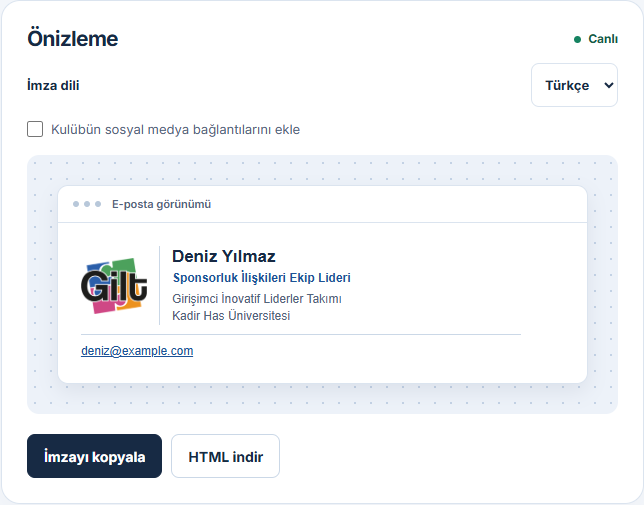
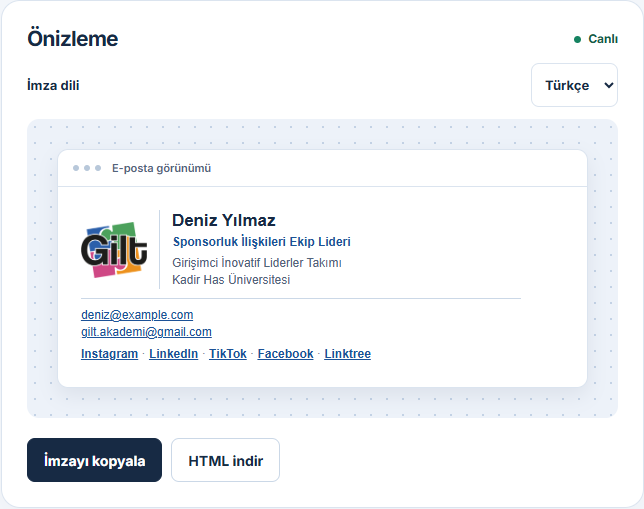
Restore default GILT signature with social links

diff --git a/kilavuz.html b/kilavuz.html
@@ -6,7 +6,7 @@
   <meta name="description" content="GİLT imzanı oluşturmayı ve Gmail ya da Outlook’a eklemeyi ekran görüntüleriyle öğren.">
   <title>E-posta imzası kullanım kılavuzu · GİLT</title>
   <link rel="icon" href="assets/gilt-color-wordmark.png">
-  <link rel="stylesheet" href="style.css?v=7">
+  <link rel="stylesheet" href="style.css?v=8">
 </head>
 <body>
   <header class="topbar"><div class="shell topbar-inner">
@@ -22,7 +22,6 @@
       <a href="#hazirla">İmzanı hazırla</a>
       <a href="#gmail">Gmail</a>
       <a href="#outlook">Outlook</a>
-      <a href="#resmi">Resmî yazışmalar</a>
       <a href="#kontrol">Son kontrol</a>
     </nav>
     <section class="panel" id="hazirla">
@@ -41,10 +40,9 @@
         <div>
           <h3>Önizlemeyi kontrol et ve kopyala</h3>
           <p><strong>İmza dili</strong> menüsünden Türkçe veya English seç. Görev ya da birim adını seçtiğin dilde yaz. Önizlemeyi kontrol ettikten sonra <strong>İmzayı kopyala</strong>’ya bas.</p>
-          <p>Kulüp tanıtımı için sosyal hesapları eklemek istersen önizlemedeki kutuyu işaretle. Bu seçim kulübün genel e-posta adresini de imzaya ekler.</p>
         </div>
         <figure>
-          <img src="assets/kilavuz-onizleme.webp" alt="GİLT yazılı logolu önizleme. Sosyal medya kutusu boş. İmzayı kopyala ve HTML indir düğmeleri altta." width="644" height="505">
+          <img src="assets/kilavuz-onizleme.webp" alt="GİLT yazılı logosunun, örnek imzanın ve İmzayı kopyala ile HTML indir düğmelerinin göründüğü önizleme paneli." width="644" height="509">
           <figcaption>Stüdyo ekranı · Yazılı logolu imza ve kopyalama düğmesi</figcaption>
         </figure>
       </div>
@@ -78,17 +76,8 @@
       </details>
       <p><a href="https://support.microsoft.com/en-gb/outlook/mail/how-to-add-and-change-an-email-signature-in-outlook?nochrome=true">Microsoft Desteği’nde imza ayarları ↗</a></p>
     </section>
-    <section class="panel" id="resmi">
-      <h2>3. Resmî yazışmalarda imzanı kullan</h2>
-      <ul>
-        <li>Akademik ve idari yazışmaları KHAS kurumsal hesabından gönder. İmzaya e-posta yazacaksan gönderimde kullandığın kurumsal adresi gir. Sosyal medya kutusunu boş bırak.</li>
-        <li>Alıcı dış görselleri engellerse logo görünmeyebilir. Ad, görev ve iletişim bilgileri metin olarak kalır. Yalnızca metin gereken yazışmalarda imzayı e-posta düzenleyicisine <strong>Yalnızca metni koru</strong> seçeneğiyle yapıştır.</li>
-        <li>Spam klasörünü gönderen alanının kimlik doğrulaması ve itibarı, alıcı şikâyetleri ve kurumun posta filtreleri etkiler. İletin spam’e düşüyorsa test iletisinin başlıklarındaki SPF, DKIM ve DMARC sonuçlarını kurumunun BT desteğiyle kontrol et.</li>
-      </ul>
-      <p><a href="https://www.khas.edu.tr/bt/e-posta-hizmeti/">KHAS e-posta kuralları ↗</a> · <a href="https://support.google.com/a/answer/81126?hl=tr">Gmail gönderen yönergeleri ↗</a></p>
-    </section>
     <section class="panel" id="kontrol">
-      <h2>4. Kendine deneme e-postası gönder</h2>
+      <h2>3. Kendine deneme e-postası gönder</h2>
       <ol>
         <li>Yeni bir e-posta aç ve imzanın otomatik olarak geldiğini kontrol et. Gerekirse yeni ileti için imza varsayılanını tekrar seç.</li>
         <li>Kendine gönder. Gelen e-postayı telefonda ve bilgisayarda açıp logoyu, iletişim bilgilerini ve bağlantıları kontrol et.</li>

diff --git a/app.js b/app.js
@@ -47,9 +47,6 @@ function signatureData() {
   const emailField = isClub ? fields.clubEmail : fields.memberEmail;
   const phoneField = isClub ? fields.clubPhone : fields.memberPhone;
   const email = emailField.validity.valid ? emailField.value.trim() : "";
-  const includeSocials = fields.includeSocials.checked;
-  const emails = email ? [email] : [];
-  if (includeSocials && email.toLowerCase() !== clubEmail) emails.push(clubEmail);
 
   return {
     isClub,
@@ -57,16 +54,15 @@ function signatureData() {
     labels,
     name: name || labels.name,
     role: role || (isClub ? "" : labels.role),
-    emails,
+    emails: email && email.toLowerCase() !== clubEmail ? [email, clubEmail] : [clubEmail],
     phone: phoneField.validity.valid ? phoneField.value.trim() : "",
-    channels: includeSocials ? socialLinks : [],
   };
 }
 
-function renderSignature({ isClub, language, labels, name, role, emails, phone, channels }) {
+function renderSignature({ isClub, language, labels, name, role, emails, phone }) {
   const { teamName, university } = labels;
   const linkStyle = "color:#1c5297;text-decoration:underline;";
-  const socials = channels.map(([label, href]) =>
+  const socials = socialLinks.map(([label, href]) =>
     `<a href="${escapeHTML(href)}" style="${linkStyle}font-weight:bold;white-space:nowrap;">${escapeHTML(label)}</a>`
   ).join(' <span aria-hidden="true" style="color:#78869a;">·</span> ');
   const contacts = [
@@ -87,13 +83,13 @@ function renderSignature({ isClub, language, labels, name, role, emails, phone, 
       <div style="padding-top:4px;color:#53647b;">${isClub ? university : `${teamName}<br>${university}`}</div>
     </td>
   </tr>
-  ${contacts || socials ? `<tr><td colspan="2" height="9" style="height:9px;font-size:0;line-height:9px;">&nbsp;</td></tr>
+  <tr><td colspan="2" height="9" style="height:9px;font-size:0;line-height:9px;">&nbsp;</td></tr>
   <tr>
     <td colspan="2" style="padding-top:8px;border-top:1px solid #cbd8e7;">
       ${contacts}
-      ${socials ? `<div style="padding-top:4px;line-height:19px;">${socials}</div>` : ""}
+      <div style="padding-top:4px;line-height:19px;">${socials}</div>
     </td>
-  </tr>` : ""}
+  </tr>
 </table>`;
 }
 
@@ -143,7 +139,7 @@ async function copySignature() {
   const html = renderSignature(data);
   const plain = [
     data.name, data.role, data.isClub ? "" : data.labels.teamName, data.labels.university, ...data.emails, data.phone,
-    ...data.channels.map(([label, url]) => `${label} — ${url}`),
+    ...socialLinks.map(([label, url]) => `${label} — ${url}`),
   ].filter(Boolean).join("\n");
 
   try {
@@ -184,7 +180,6 @@ form.addEventListener("input", (event) => {
   refreshPreview();
 });
 fields.signatureLanguage.addEventListener("change", refreshPreview);
-fields.includeSocials.addEventListener("change", refreshPreview);
 document.querySelector("#copy").addEventListener("click", copySignature);
 document.querySelector("#download").addEventListener("click", downloadSignature);
 refreshPreview();

diff --git a/index.html b/index.html
@@ -6,8 +6,8 @@
   <meta name="description" content="GİLT kulüp ve üye e-posta imzalarını oluşturun, önizleyin ve kopyalayın.">
   <title>İmza Stüdyosu · GİLT</title>
   <link rel="icon" href="assets/gilt-color-wordmark.png">
-  <link rel="stylesheet" href="style.css?v=7">
-  <script src="app.js?v=7" defer></script>
+  <link rel="stylesheet" href="style.css?v=8">
+  <script src="app.js?v=8" defer></script>
 </head>
 <body>
   <header class="topbar">
@@ -44,7 +44,7 @@
             </fieldset>
             <fieldset id="club-contact-fields" class="fields" hidden disabled>
               <legend class="sr-only">Kulüp iletişim bilgileri</legend>
-              <label>Kulüp e-postası <span class="optional">İsteğe bağlı</span><input type="email" name="clubEmail" maxlength="120" placeholder="Ekip e-posta adresi"></label>
+              <label>Ek e-posta <span class="optional">İsteğe bağlı</span><input type="email" name="clubEmail" maxlength="120" placeholder="Ekip e-posta adresi"></label>
               <label>Kulüp telefonu <span class="optional">İsteğe bağlı</span><input type="tel" name="clubPhone" maxlength="26" pattern="\+?[0-9\s\(\).\-]{7,25}" title="Alan koduyla birlikte telefon numarası girin." placeholder="+90 5XX XXX XX XX"></label>
             </fieldset>
           </div>
@@ -60,10 +60,6 @@
             <option value="en" lang="en">English</option>
           </select>
         </div>
-        <label class="social-option">
-          <input type="checkbox" name="includeSocials" form="signature-form">
-          <span>Kulübün sosyal medya bağlantılarını ekle</span>
-        </label>
         <div class="canvas"><div class="mail">
           <div class="mail-header"><span></span><span></span><span></span><strong>E-posta görünümü</strong></div>
           <div id="preview" aria-label="E-posta imzası önizlemesi"></div>

diff --git a/style.css b/style.css
@@ -135,7 +135,5 @@ fieldset { border: 0; margin: 0; padding: 0; min-width: 0; }
   border: 1px solid var(--line);
   border-radius: 8px;
 }
-.social-option { display: flex; align-items: center; gap: 8px; min-height: 44px; color: var(--muted); font-size: 13px; cursor: pointer; }
-.social-option input { width: 16px; height: 16px; margin: 0; accent-color: var(--blue); flex: none; }
-.social-option + .canvas { margin-top: 4px; }
+.signature-language + .canvas { margin-top: 12px; }
 #status:empty { margin: 0; }

diff --git a/README.md b/README.md
@@ -7,7 +7,7 @@ GİLT üyeleri için bireysel ve kulüp e-posta imzası oluşturucusu. Statik HT
 - `app.js` e-posta için satır içi stillerle imza üretimi, kopyalama ve HTML indirme
 - `style.css` stüdyo ve kılavuz stilleri
 
-İki imza türü de özgün GİLT yazılı logosunu kullanır. Varsayılan imza, girilen iletişim bilgilerini içerir. Sosyal medya kutusu seçildiğinde imzaya `index.html` dosyasındaki iletişim bölümünden kulüp e-postası ve sosyal bağlantılar eklenir. [Kulüp e-postası](https://www.khas.edu.tr/ogrenci-kulupleri/), [sosyal hesaplar](https://linktr.ee/khas_gilt) ve [Öğrenci Dekanlığı telefonu](https://www.khas.edu.tr/odek/) ilgili kurum sayfalarında listelenir.
+İki imza türü de özgün GİLT yazılı logosunu kullanır. İmzalardaki ortak e-posta ve sosyal bağlantılar, `index.html` dosyasının altındaki iletişim bölümünden alınır. [Kulüp e-postası](https://www.khas.edu.tr/ogrenci-kulupleri/), [sosyal hesaplar](https://linktr.ee/khas_gilt) ve [Öğrenci Dekanlığı telefonu](https://www.khas.edu.tr/odek/) ilgili kurum sayfalarında listelenir.
 
 ## Yerel önizleme
 
